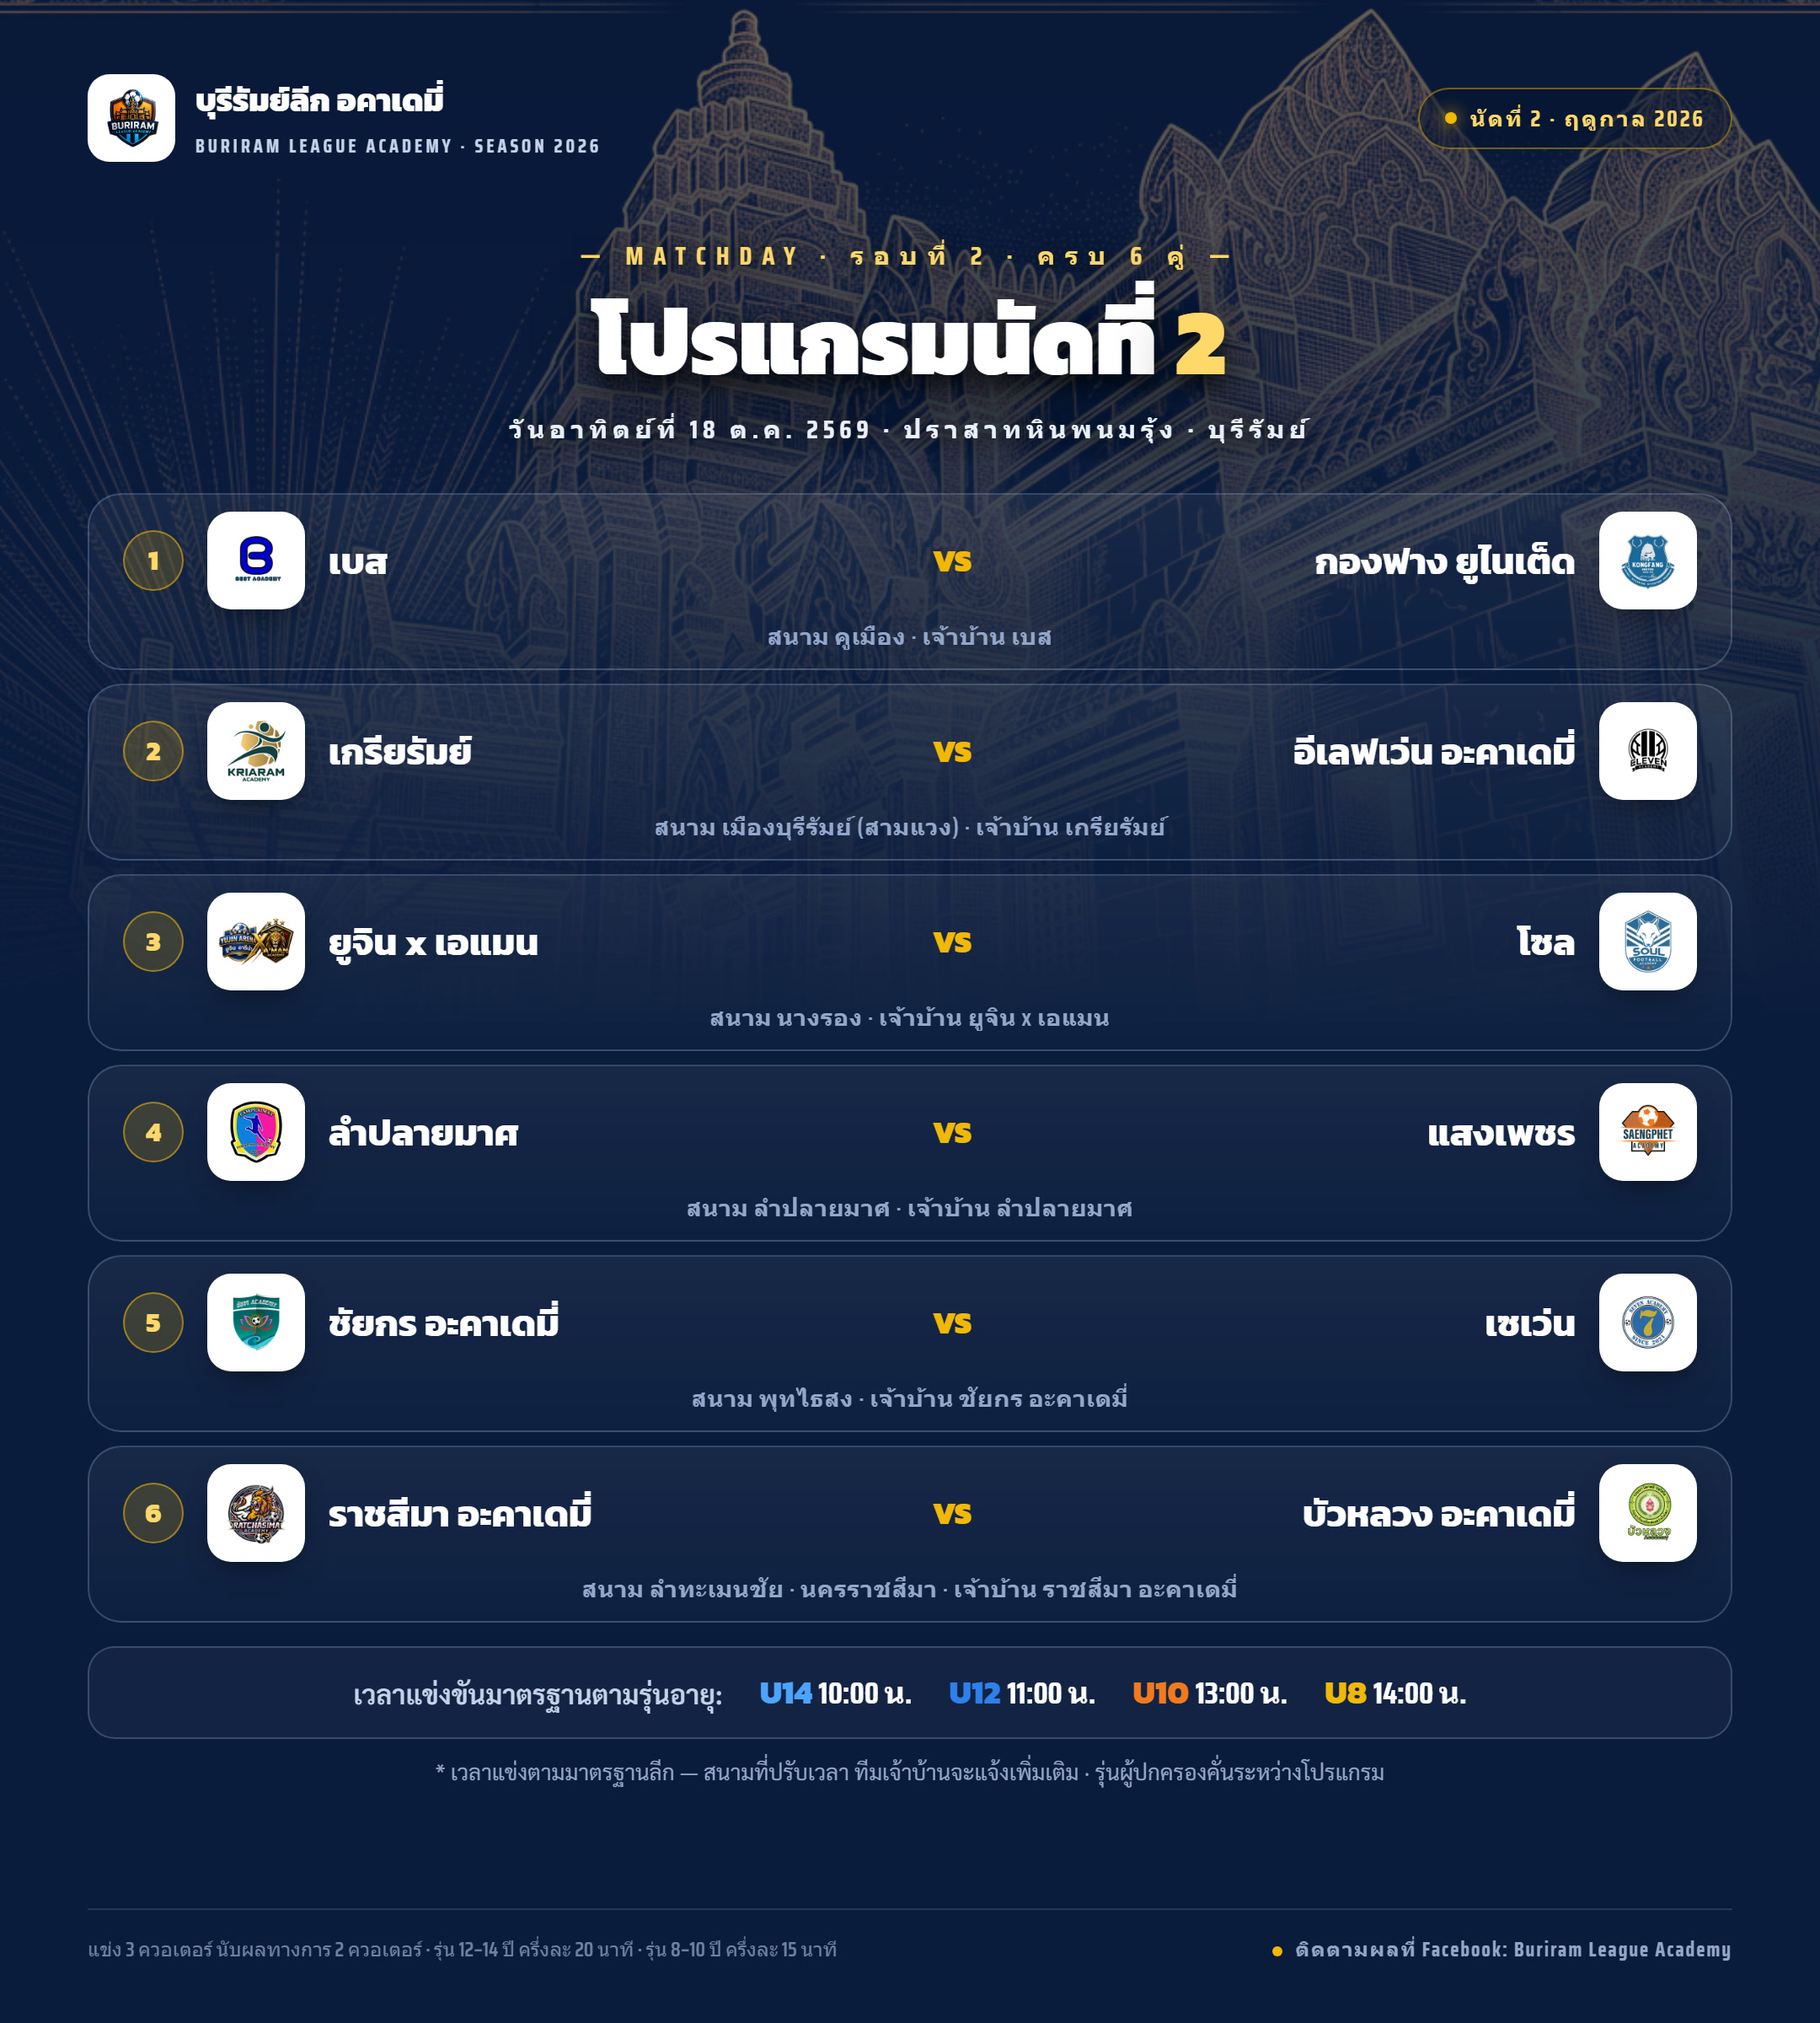
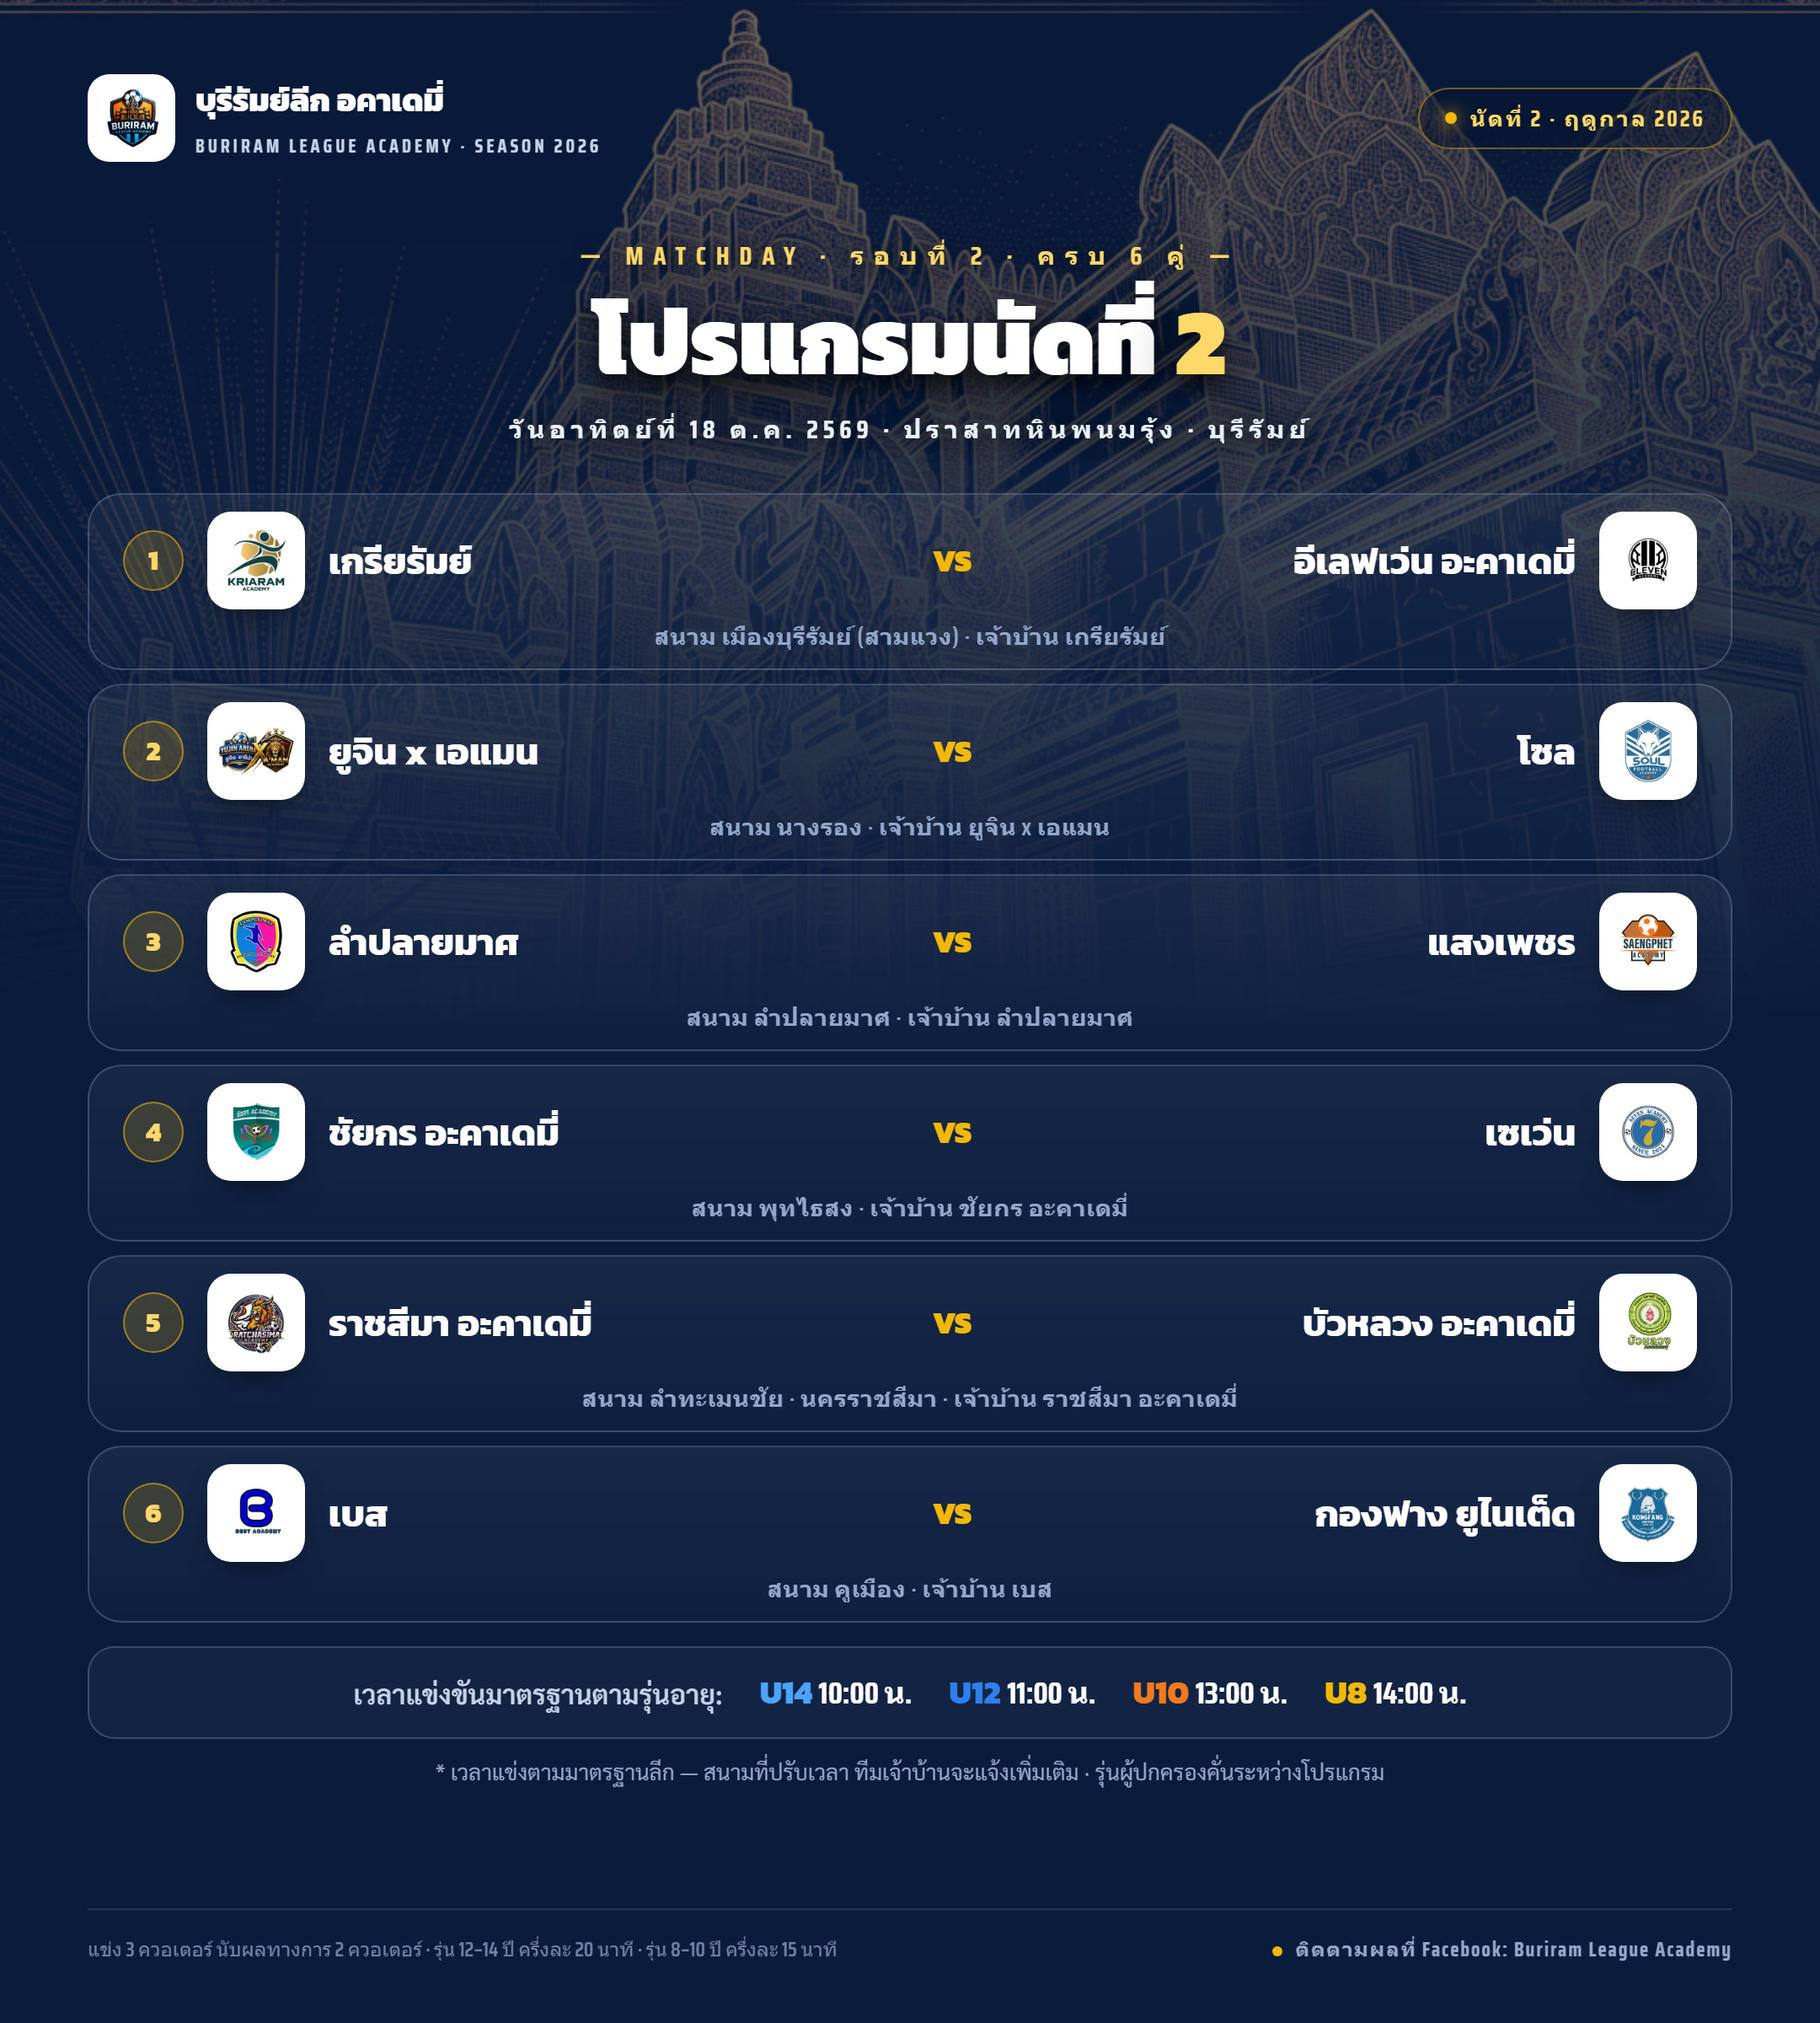
poster: round-2 summary lists Kongfang match last (neutral ordering)

diff --git a/poster-template/make-summary2.js b/poster-template/make-summary2.js
@@ -19,6 +19,9 @@ data.round = N;
 data.badge = `นัดที่ ${N} · ฤดูกาล 2026`;
 data.headline1 = 'โปรแกรมนัดที่';
 data.headline2 = String(N);
+// BLA page is neutral (admins are Kongfang people): list Kongfang's match LAST
+const isKf = m => slugOf(m.home) === 'kongfang-united' || slugOf(m.away) === 'kongfang-united';
+r.matches = r.matches.filter(m => !isKf(m)).concat(r.matches.filter(isKf));
 data.matches = r.matches.map(m => ({ home: slugOf(m.home), away: slugOf(m.away) }));
 data.summary = {
   matchday: `Matchday · รอบที่ ${N} · ครบ ${r.matches.length} คู่`,
